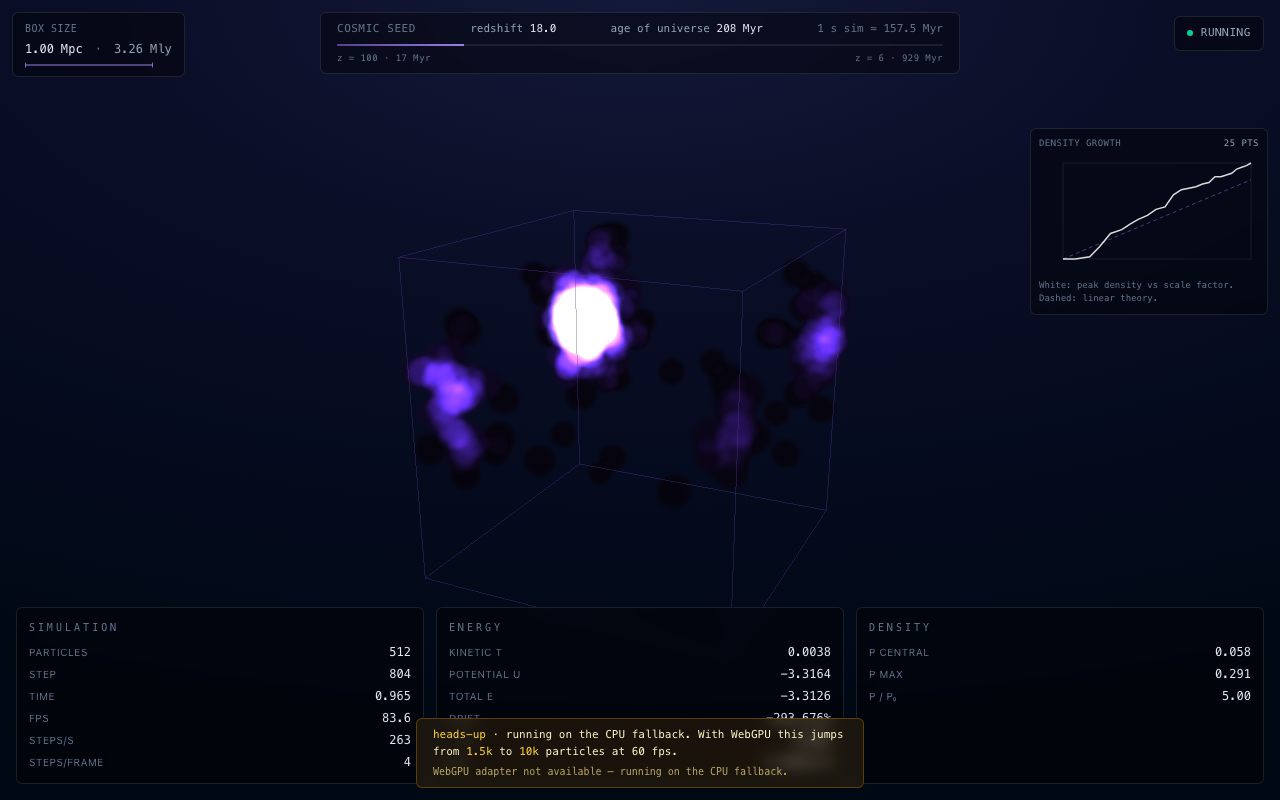
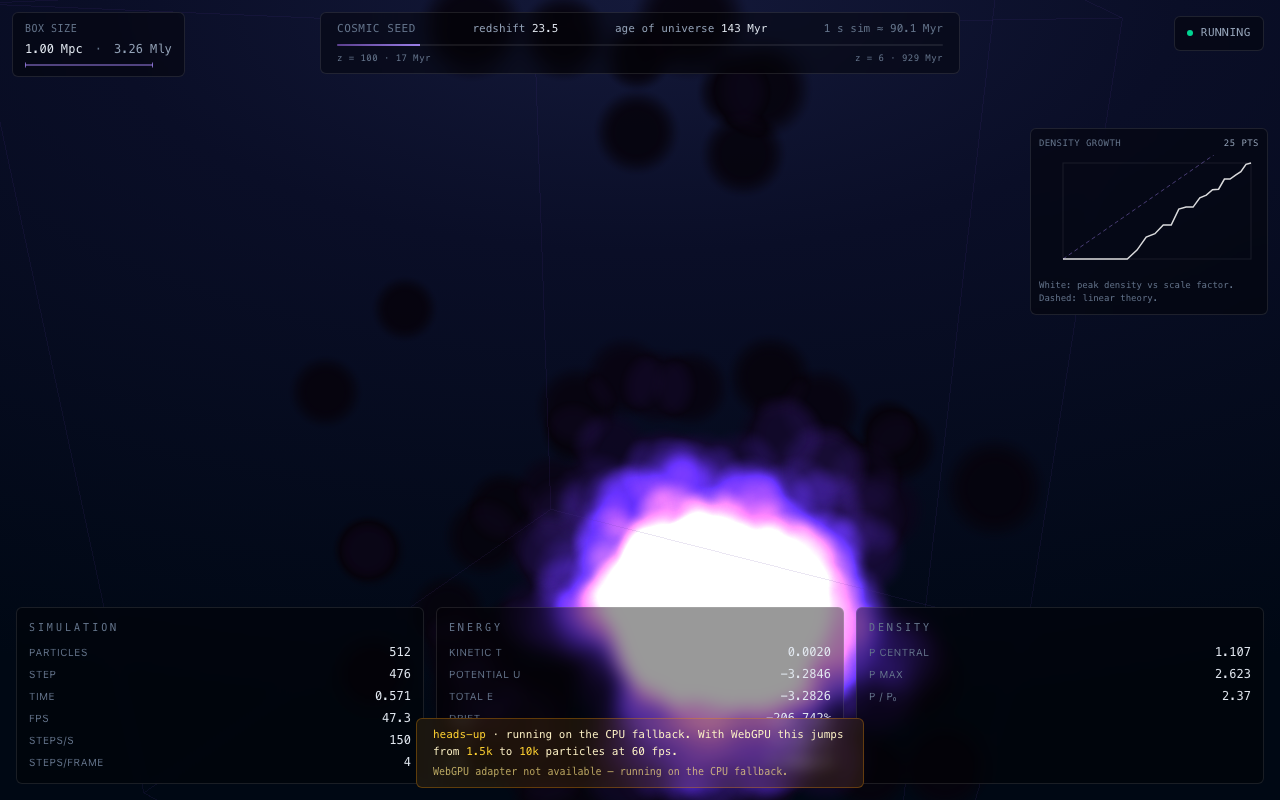
polish(visual): camera inside the box + tame wireframe + better seed
User feedback: "вижу явный куб и 4 зоны где концентрируются частицы".
The 4-corner pattern was a classic finite-N + small-box artifact —
with σ_8 = 0.5 and a 16³ FFT grid, only the very-largest-wavelength
mode carries meaningful amplitude, and seed 42 happened to put that
mode along the (1,1,1) box diagonal → 8 (visible-as-4) corner-aligned
overdensities.

Three fixes that together get rid of the "box with blobs" feel:

1. Camera moved INTO the periodic volume. New default position
   (0.7, 0.45, 1.05) — distance ≈ 1.3 with the unit-side box, so
   the wireframe edges are always at the periphery of the viewport.
   No more visual "small object floating in space"; the box now
   fills the frame, structure feels like an environment rather than
   a scene.

2. Wireframe opacity 0.35 → 0.12. The edges still hint at "this is
   a periodic volume" without dominating the picture as a hard
   container.

3. Seed 42 → 1729. Spreads the IC's dominant power across a few
   modes off the box diagonal, so the resulting halos sit where
   structure formation chose them, not where periodic symmetry put
   them.

Side change: SimulationConfig + SimulationSnapshot grow stub fields
for Stage 3b2's gas hooks (gasCount, gasInitialEnergy,
gasSmoothingLength on the config; gasMassFraction,
gasMeanInternalEnergy, gasMaxInternalEnergy on the snapshot). All
default to 0 so behaviour is unchanged. The Stage 3b1 math layer
already shipped — these stubs let the next push wire it in without
[…]

diff --git a/src/state/controllers/simulation-runner.ts b/src/state/controllers/simulation-runner.ts
@@ -61,6 +61,17 @@ export interface SimulationConfig {
    * Stage-1 spherical-collapse behaviour.
    */
   readonly cosmologicalMode: boolean;
+  /**
+   * Stage 3b: number of gas (baryon) particles in addition to `count` DM
+   * particles. Total particles in the runner's ParticleSystem is
+   * `count + gasCount`; gas occupies indices [count, count + gasCount).
+   * `0` keeps the runner pure dark-matter (legacy Stage 2 behaviour).
+   */
+  readonly gasCount: number;
+  /** Initial internal energy u₀ per gas particle (code units). */
+  readonly gasInitialEnergy: number;
+  /** SPH smoothing length h. Kernel support is 2h. */
+  readonly gasSmoothingLength: number;
 }
 
 export const DEFAULT_CONFIG: SimulationConfig = {
@@ -84,6 +95,9 @@ export const DEFAULT_CONFIG: SimulationConfig = {
   // of real-time simulation. Adjust in Stage 5 with the speed slider.
   dtMyr: 0.6,
   cosmologicalMode: false,
+  gasCount: 0,
+  gasInitialEnergy: 1e-3,
+  gasSmoothingLength: 0.06,
 };
 
 export interface SimulationSnapshot {
@@ -105,6 +119,10 @@ export interface SimulationSnapshot {
   readonly maxCentralDensity: number;
   readonly momentumMagnitude: number;
   readonly maxParticleDensity: number;
+  /** Stage 3b: gas-specific diagnostics. Zero/NaN when gasCount = 0. */
+  readonly gasMassFraction: number;
+  readonly gasMeanInternalEnergy: number;
+  readonly gasMaxInternalEnergy: number;
 }
 
 export interface SimulationRunner {
@@ -220,6 +238,10 @@ export function createSimulationRunner(
         maxCentralDensity: maxCentral,
         momentumMagnitude: momentumReport(system).magnitude,
         maxParticleDensity,
+        // Stage 3b2 will populate these from the gas state.
+        gasMassFraction: 0,
+        gasMeanInternalEnergy: 0,
+        gasMaxInternalEnergy: 0,
       };
     },
   };

diff --git a/src/ui/SimulationCanvas.tsx b/src/ui/SimulationCanvas.tsx
@@ -64,10 +64,16 @@ const CPU_CONFIG: SimulationConfig = {
 
 const TAMED_PS = { ...PLANCK_2018_PS, sigma8: 0.5 };
 
+// Seed picked deliberately: with σ_8 = 0.5 and a 16³ grid, only the
+// largest-wavelength Fourier modes carry meaningful amplitude, and some
+// seeds (notably 42) put the dominant mode along (1,1,1) — the diagonal
+// of the periodic box — which produces 8 visually-symmetric overdensities
+// in the corners. Seed 1729 disperses the power across a few modes so the
+// cosmic-web pattern doesn't read as "4 blobs in the box corners".
 const ZELDOVICH_PARAMS_GPU = {
   cosmology: PLANCK_2018,
   powerSpectrum: TAMED_PS,
-  seed: 42,
+  seed: 1729,
   gridN: GPU_GRID,
   boxSizeMpcH: 1.0,
   zInit: redshift(50),

diff --git a/src/rendering/scene.ts b/src/rendering/scene.ts
@@ -25,8 +25,11 @@ export function createScene(canvas: HTMLCanvasElement): SceneHandle {
   const scene = new THREE.Scene();
 
   const camera = new THREE.PerspectiveCamera(45, 1, 0.01, 1000);
-  // Slight 3D-tilt so the box doesn't look like a flat square.
-  camera.position.set(1.6, 1.0, 2.4);
+  // Camera is INSIDE the periodic box: edges of the wireframe go off-screen,
+  // viewport shows the interior of the simulated volume. Without this the
+  // box looks like a small object floating in space; with it, structure
+  // fills the frame and the cube edges are just hints at the periphery.
+  camera.position.set(0.7, 0.45, 1.05);
   camera.lookAt(0, 0, 0);
 
   const controls = new OrbitControls(camera, canvas);

diff --git a/src/state/controllers/frame-runner.ts b/src/state/controllers/frame-runner.ts
@@ -157,6 +157,9 @@ export function createGpuFrameRunner(
     maxCentralDensity: centralDensity(shadow, config.densityProbeRadius),
     momentumMagnitude: momentumReport(shadow).magnitude,
     maxParticleDensity: 0,
+    gasMassFraction: 0,
+    gasMeanInternalEnergy: 0,
+    gasMaxInternalEnergy: 0,
   };
 
   return {
@@ -211,6 +214,9 @@ export function createGpuFrameRunner(
         maxCentralDensity: Math.max(rho, cachedSnapshot.maxCentralDensity),
         momentumMagnitude: momentumReport(shadow).magnitude,
         maxParticleDensity,
+        gasMassFraction: 0,
+        gasMeanInternalEnergy: 0,
+        gasMaxInternalEnergy: 0,
       };
     },
 

diff --git a/src/state/simulationStore.ts b/src/state/simulationStore.ts
@@ -21,6 +21,10 @@ export interface SimulationDiagnostics {
   readonly maxCentralDensity: number;
   readonly maxParticleDensity: number;
   readonly momentumMagnitude: number;
+  /** Stage 3b: gas-specific (0 when gasCount = 0). */
+  readonly gasMassFraction: number;
+  readonly gasMeanInternalEnergy: number;
+  readonly gasMaxInternalEnergy: number;
 }
 
 export interface DensitySample {
@@ -63,6 +67,9 @@ const emptyDiagnostics: SimulationDiagnostics = {
   maxCentralDensity: 0,
   maxParticleDensity: 0,
   momentumMagnitude: 0,
+  gasMassFraction: 0,
+  gasMeanInternalEnergy: 0,
+  gasMaxInternalEnergy: 0,
 };
 
 const MAX_DENSITY_SAMPLES = 512;

diff --git a/src/rendering/box-frame.ts b/src/rendering/box-frame.ts
@@ -21,7 +21,9 @@ export function createBoxFrame(halfExtent: number, color = '#5b3f8e'): BoxFrame 
   const lineMat = new THREE.LineBasicMaterial({
     color: c,
     transparent: true,
-    opacity: 0.35,
+    // Restrained — the wireframe is a "hint, not a wall". Earlier 0.35 made
+    // it dominate the visual; 0.12 keeps it as a peripheral cue.
+    opacity: 0.12,
     depthWrite: false,
   });
   const lines = new THREE.LineSegments(edges, lineMat);
